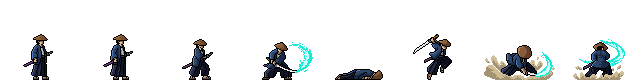
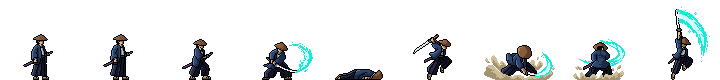
update

Changed region(s): [[0.25, 0.125, 1.0, 1.0], [0.125, 0.425, 0.2188, 1.0], [0.0312, 0.425, 0.0938, 1.0]]

diff --git a/characters/players/samurai.js b/characters/players/samurai.js
@@ -1,38 +1,35 @@
 import { Player } from './player.js';
 
-  export class Samurai extends Player {
-    constructor() {
-      super({
-        id: "player",          
-        imgSrc: "assets/images/Samurai-Sheet.png", 
-        hp: 25,
-        mp: 0,
-        atk: 10,
-        def: 5,
-        mdf: 5,
-        eva: 5,
-        critRate: 5,
-        width: 80,  // 個別の幅
-        height: 80,  // 個別の高さ
-        sizeRatio: 45,
-        frameCount: 8,
-        deathFrame: 4,
-        idleFrameCount: 2,
-      });
-      this.name = "Samurai";
-      // 効果音の設定
-      this.attackSound = new Audio('assets/sounds/attack1.mp3');
-      }
-   
+export class Samurai extends Player {
+  constructor() {
+    super({
+      id: "player",          
+      imgSrc: "assets/images/Samurai-Sheet.png", 
+      hp: 25,
+      mp: 0,
+      atk: 10,
+      def: 5,
+      mdf: 5,
+      eva: 5,
+      critRate: 5,
+      width: 80,  
+      height: 80,  
+      sizeRatio: 45,
+      frameCount: 9,
+      deathFrame: 4,
+      idleFrameCount: 2,
+    });
+    this.name = "Samurai";
+    this.attackSound = new Audio('assets/sounds/attack1.mp3');
+  }
 
-  // フレーム番号から背景位置を計算するヘルパー（ズレ防止）
   getFramePos(frameIndex) {
-    const totalFrames = 8; 
+    const totalFrames = 9; 
     return `${(frameIndex / (totalFrames - 1)) * 100}% 100%`;
   }
 
-   /* ==========================================================================
-  通常攻撃 (修正版)
+  /* ==========================================================================
+  通常攻撃
   ========================================================================== */
   playAttackAnimation(target, damage, isCritical, isEvaded = false) {
     if (!this.el || !target || !target.el) return;
@@ -43,11 +40,9 @@ import { Player } from './player.js';
     const selfRect = this.el.getBoundingClientRect();
     const distanceX = (targetRect.left - selfRect.left) * 0.7;
 
-    // --- ステップ1: 構え (フレーム2) ---
     this.sprite.style.backgroundPosition = this.getFramePos(2);
 
     setTimeout(() => {
-      // --- ステップ2: 斬撃＆突進 (フレーム3) ---
       this.sprite.style.transition = "transform 0.1s ease-out";
       this.sprite.style.backgroundPosition = this.getFramePos(3);
       this.sprite.style.transform = `translateX(${distanceX}px)`;
@@ -66,13 +61,9 @@ import { Player } from './player.js';
         target.takeDamage?.(damage, isCritical);
       }
 
-      // --- ステップ3: 帰還 ---
       setTimeout(() => {
         this.sprite.style.transition = "none";
-        
-        // ★ここを追加：元の位置に戻る瞬間に、待機フレーム（例: フレーム1）に画像を切り替える
         this.sprite.style.backgroundPosition = this.getFramePos(1); 
-        
         this.sprite.style.transform = `translateX(0px)`;
         this.isAttacking = false;
         this.startIdle();
@@ -81,99 +72,164 @@ import { Player } from './player.js';
   }
 
   /* ==========================================================================
-  必殺技: 三連正解時 (フレーム5, 6を使用)
+  必殺技コントロール（コンボ数による出し分け）
   ========================================================================== */
-  playFinishingMove(target, damage) {
+  playUltimateFinishingMove(target, damage) {
     if (!this.el || !target || !target.el) return;
+
+    const currentCombo = window.battleManager?.comboCount || 3;
+    
+    // ① 9連続以上：3撃の必殺（フレーム5 -> 6 -> 7 -> 8）
+    if (currentCombo >= 9) {
+      this.play9ComboUltimate(target, damage);
+      return;
+    }
+
+    // ② 6連続以上：2撃の必殺（フレーム5 -> 6 -> 7）
+    if (currentCombo >= 6) {
+      this.play6ComboUltimate(target, damage);
+      return;
+    }
+
+    // ③ 3連続以上：1撃の必殺（フレーム5 -> 6）
+    this.play3ComboUltimate(target, damage);
+  }
+
+  /* ==========================================================================
+  1. 通常の必殺技: 三連続以上 (1撃)
+  ========================================================================== */
+  play3ComboUltimate(target, damage) {
     this.isAttacking = true;
     this.stopIdle();
 
-    const targetRect = target.el.getBoundingClientRect();
-    const selfRect = this.el.getBoundingClientRect();
-    const distanceX = (targetRect.left - selfRect.left) * 0.8;
+    const distanceX = (target.el.getBoundingClientRect().left - this.el.getBoundingClientRect().left) * 0.8;
 
-    // 1. 空中モーションへ (フレーム5)
+    // 空中モーションへ (フレーム5)
     this.sprite.style.transition = "transform 0.2s ease-out";
     this.sprite.style.backgroundPosition = this.getFramePos(5);
-    this.sprite.style.transform = `translate(${distanceX * 0.5}px, -40px)`; 
+    this.sprite.style.transform = `translateX(${distanceX * 0.8}px)`;
 
     setTimeout(() => {
-      // 2. 急降下攻撃 (フレーム6)
+      // 1撃目：急降下攻撃をして終了 (フレーム6)
       this.sprite.style.transition = "transform 0.1s ease-in";
       this.sprite.style.backgroundPosition = this.getFramePos(6);
-      this.sprite.style.transform = `translate(${distanceX}px, 0px)`; 
+      this.sprite.style.transform = `translateX(${distanceX}px)`;
 
       this.triggerFlash();
       this.playCriticalHitSE();
-      
-      if (target.takeDamage) {
-        target.takeDamage(damage * 1.5, true);
-      }
+      target.takeDamage?.(damage * 1.5, true);
 
-      // 3. 元の場所へ一瞬で戻り、待機モーションを開始
+      // 元の位置に戻る
       setTimeout(() => {
-        // 位置を即座にリセット
-        this.sprite.style.transition = "none";
-        this.sprite.style.transform = "translate(0px, 0px)";
-        
-        // --- ここが重要：戻ると同時に見た目を待機に戻す ---
-        this.isAttacking = false; 
-        this.sprite.style.backgroundPosition = this.getFramePos(0); // 最初のフレームに強制セット
-        this.startIdle(); // 待機アニメーション（0と1のループ）を再開 
-      }, 400); // 攻撃ポーズ（フレーム6）を見せる時間      
+        this.resetToIdle();
+      }, 400);
     }, 400);
   }
 
   /* ==========================================================================
-  超必殺技: 六連正解以上 (フレーム5, 6, 7を使用する2回連続攻撃)
+  2. 超必殺技: 六連続以上 (2撃)
   ========================================================================== */
-  playUltimateFinishingMove(target, damage) {
-    if (!this.el || !target || !target.el) return;
+  play6ComboUltimate(target, damage) {
     this.isAttacking = true;
     this.stopIdle();
 
-    const targetRect = target.el.getBoundingClientRect();
-    const selfRect = this.el.getBoundingClientRect();
-    const distanceX = (targetRect.left - selfRect.left) * 0.8;
+    const distanceX = (target.el.getBoundingClientRect().left - this.el.getBoundingClientRect().left) * 0.8;
 
-    // 1. 空中モーションへ (フレーム5)
+    // 空中モーションへ (フレーム5)
     this.sprite.style.transition = "transform 0.2s ease-out";
     this.sprite.style.backgroundPosition = this.getFramePos(5);
-    this.sprite.style.transform = `translate(${distanceX * 0.5}px, -40px)`; 
+    this.sprite.style.transform = `translateX(${distanceX * 0.8}px)`;; 
 
     setTimeout(() => {
-      // 2. 1撃目：急降下攻撃 (フレーム6)
+      // 1撃目：急降下攻撃 (フレーム6)
       this.sprite.style.transition = "transform 0.1s ease-in";
       this.sprite.style.backgroundPosition = this.getFramePos(6);
-      this.sprite.style.transform = `translate(${distanceX}px, 0px)`; 
+      this.sprite.style.transform = `translateX(${distanceX}px)`;
 
       this.triggerFlash();
       this.playCriticalHitSE();
-      
-      if (target.takeDamage) {
-        target.takeDamage(damage * 1.5, true); // クリティカル
-      }
+      target.takeDamage?.(damage * 1.5, true);
 
-      // 3. 2撃目：追加の斬撃 (フレーム7)
+      // 2撃目：追加の斬撃 (フレーム7)
       setTimeout(() => {
-        this.sprite.style.backgroundPosition = this.getFramePos(7); // ※シートの8枚目(インデックス7)
+        this.sprite.style.backgroundPosition = this.getFramePos(7); 
 
         this.triggerFlash();
         this.playCriticalHitSE();
+        target.takeDamage?.(damage * 1.5, true); 
 
-        if (target.takeDamage) {
-          target.takeDamage(damage * 1.5, true); // 2回目のクリティカルダメージ
-        }
-
-        // 4. 元の場所へ戻る
+        // 元の場所へ戻る
         setTimeout(() => {
-          this.sprite.style.transition = "none";
-          this.sprite.style.transform = "translate(0px, 0px)";
-          this.isAttacking = false; 
-          this.sprite.style.backgroundPosition = this.getFramePos(0); 
-          this.startIdle(); 
-        }, 400); // フレーム7の表示時間
-      }, 300); // 1撃目から2撃目までの間隔
+          this.resetToIdle();
+        }, 400);
+      }, 300);
     }, 400);
+  }
+
+   /* ==========================================================================
+  3. 超必殺技(極): 九連続以上 (高速三連斬り)
+========================================================================== */
+play9ComboUltimate(target, damage) {
+  this.isAttacking = true;
+  this.stopIdle();
+
+  const distanceX =
+    (target.el.getBoundingClientRect().left -
+      this.el.getBoundingClientRect().left) * 0.9;
+
+  // 接近 + 構え (5)
+  this.sprite.style.transition = "transform 0.3s ease-out";
+  this.sprite.style.backgroundPosition = this.getFramePos(5);
+  this.sprite.style.transform = `translateX(${distanceX * 0.8}px)`;; 
+
+  setTimeout(() => {
+
+    // 1撃目 (6)
+    this.sprite.style.backgroundPosition = this.getFramePos(6);
+
+    this.triggerFlash();
+    this.playCriticalHitSE();
+    target.takeDamage?.(damage * 1.5, true);
+
+    setTimeout(() => {
+
+      // 2撃目 (7)
+      this.sprite.style.backgroundPosition = this.getFramePos(7);
+
+      this.triggerFlash();
+      this.playCriticalHitSE();
+      target.takeDamage?.(damage * 1.5, true);
+
+      setTimeout(() => {
+
+        // 最後の斬り (3)
+        this.sprite.style.backgroundPosition = this.getFramePos(3);
+        this.sprite.style.transform = `translateX(${distanceX * 0.8}px)`;; 
+
+        this.triggerFlash();
+        this.playCriticalHitSE();
+        target.takeDamage?.(damage * 2, true);
+
+        // 終了
+        setTimeout(() => {
+          this.resetToIdle();
+        }, 180);
+
+      }, 120);
+
+    }, 120);
+
+  }, 500);
+}
+
+  /* ==========================================================================
+  共通ヘルパー: 待機状態への強制リセット
+  ========================================================================== */
+  resetToIdle() {
+    this.sprite.style.transition = "none";
+    this.sprite.style.transform = "translate(0px, 0px)";
+    this.isAttacking = false; 
+    this.sprite.style.backgroundPosition = this.getFramePos(0); 
+    this.startIdle(); 
   }
 }

diff --git a/js/battleManager.js b/js/battleManager.js
@@ -190,17 +190,11 @@ export const battleManager = {
   // 敵の情報を渡して正確に計算
   let { damage, isCritical } = this.calculatePlayerDamage(targetEnemy);
 
-  // コンボ数（必殺技）による威力の底上げ
-  if (this.comboCount >= 6 && this.player.playUltimateFinishingMove) {
-    // 6連撃以上：必殺技側で1.5倍などにするため、ベースダメージを渡す
-    this.player.playUltimateFinishingMove(targetEnemy, damage);
-  } else if (this.comboCount >= 3 && this.player.playFinishingMove) {
-    // 3連撃以上
-    this.player.playFinishingMove(targetEnemy, damage);
-  } else {
-    // 通常正解
-    this.player.playAttackAnimation(targetEnemy, damage, isCritical);
-  }
+  if (this.comboCount >= 3 && this.player.playUltimateFinishingMove) {
+  this.player.playUltimateFinishingMove(targetEnemy, damage);
+} else {
+  this.player.playAttackAnimation(targetEnemy, damage, isCritical);
+}
 
     setTimeout(() => {
       if (!this.player || this.player.hp <= 0) return;
